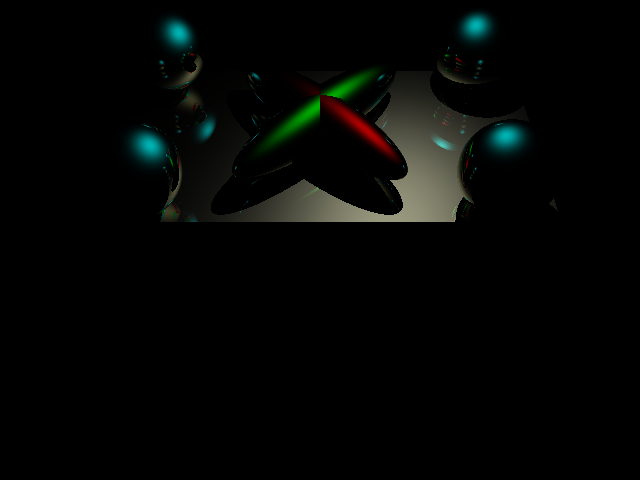
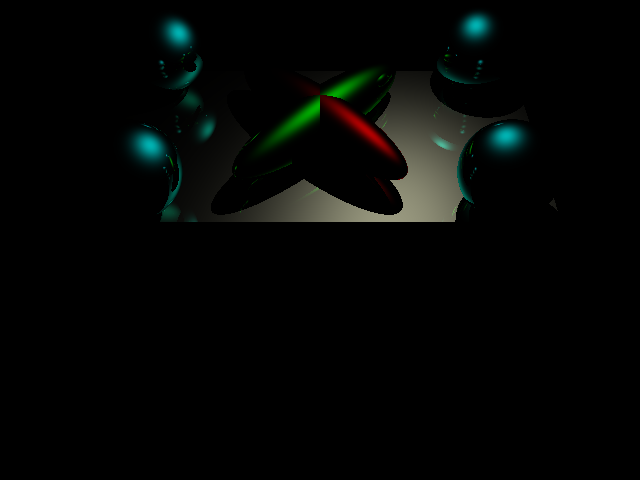
Raytracer bugfixes.

diff --git a/Vertex Raytracer/Raytracer/src/Raytracer.cpp b/Vertex Raytracer/Raytracer/src/Raytracer.cpp
@@ -2,7 +2,6 @@
 
 Raytracer::Raytracer(Scene& scene)
     : m_background_color(glm::vec3(0.0f)),
-      m_shadow_color    (glm::vec3(0.0f)),
       m_recurrence_depth(INITIAL_RECURRENCE_DEPTH),
       m_max_distance    (std::numeric_limits<float>::max()),
       m_distance        (m_max_distance),
@@ -27,7 +26,7 @@ glm::vec3 Raytracer::illuminate(int x_idx, int y_idx, Ray* reflection_ray)
 
     Ray ray = (reflection_ray == nullptr) ? m_scene->cam->rayFromCamera(y_idx, x_idx) : *reflection_ray;
 
-    bool isIntersection = checkSpheresIntersections(ray) || checkTrianglesIntersections(ray);
+    bool isIntersection = checkSpheresIntersections(ray) | checkTrianglesIntersections(ray);
 
     /* Calculate light */
     if (isIntersection)
@@ -141,10 +140,6 @@ glm::vec3 Raytracer::calcLight(const Ray& ray, const glm::vec3& hit_pos)
 
             light_color += attenuation * (lambert + phong);
         }
-        else
-        {
-            light_color += m_shadow_color;
-        }
 
         light_index++;
     }
@@ -227,7 +222,9 @@ glm::vec3 Raytracer::calcReflections(const Ray& ray, const glm::vec3& hit_pos)
 
             /* Compute reflection color */
             m_recurrence_depth++;
-            reflection_color += m_objects_material.specular * illuminate(-1, -1, &reflection_ray);
+
+            glm::vec3 specular = m_objects_material.specular;
+            reflection_color += specular * illuminate(-1, -1, &reflection_ray);
         }
     }
 

diff --git a/Vertex Raytracer/Raytracer/src/Raytracer.h b/Vertex Raytracer/Raytracer/src/Raytracer.h
@@ -11,7 +11,6 @@ public:
     ~Raytracer();
 
     void setBackgroundColor(float r, float g, float b) { m_background_color = glm::vec3(r, g, b); }
-    void setShadowColor    (float r, float g, float b) { m_shadow_color     = glm::vec3(r, g, b); }
 
     glm::vec3 illuminate(int x_idx, int y_idx, Ray* reflection_ray = nullptr);
 
@@ -30,7 +29,6 @@ private:
     glm::vec3 m_objects_intersect_point;
 
     glm::vec3 m_background_color;
-    glm::vec3 m_shadow_color;
     int m_recurrence_depth;
 
     float m_max_distance;

diff --git a/Vertex Raytracer/Raytracer/src/main.cpp b/Vertex Raytracer/Raytracer/src/main.cpp
@@ -1,7 +1,7 @@
 #include "Scene.h"
 #include "Framebuffer.h"
 
-//#define CMD
+#define CMD
 
 int main(int argc, char * argv[])
 {
@@ -16,7 +16,7 @@ int main(int argc, char * argv[])
 
         scene.loadScene(argv[1]);
     #else
-        scene.loadScene("subm/scene4-specular.test");
+        scene.loadScene("subm/scene6.test");
     #endif
 
     Framebuffer framebuffer(scene.width, scene.height);

diff --git a/Vertex Raytracer/Raytracer/src/Framebuffer.cpp b/Vertex Raytracer/Raytracer/src/Framebuffer.cpp
@@ -26,7 +26,7 @@ Framebuffer::~Framebuffer()
 void Framebuffer::raytrace(Scene& scene, const std::string& scene_file_name)
 {
     /* Raytracing code */
-    int num_threads = 1;//std::thread::hardware_concurrency() * 4;
+    int num_threads = std::thread::hardware_concurrency() * 4;
 
     std::vector<int> bounds = thread_bounds(num_threads, m_width * m_height);
 
